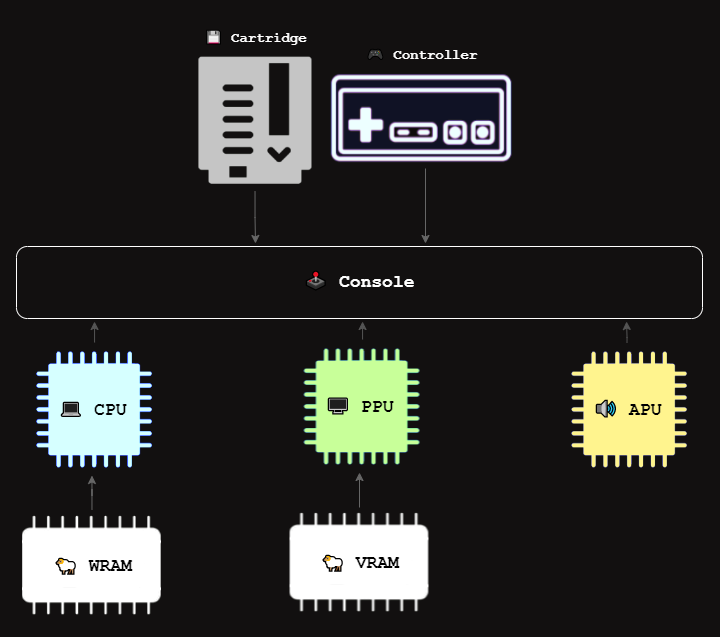
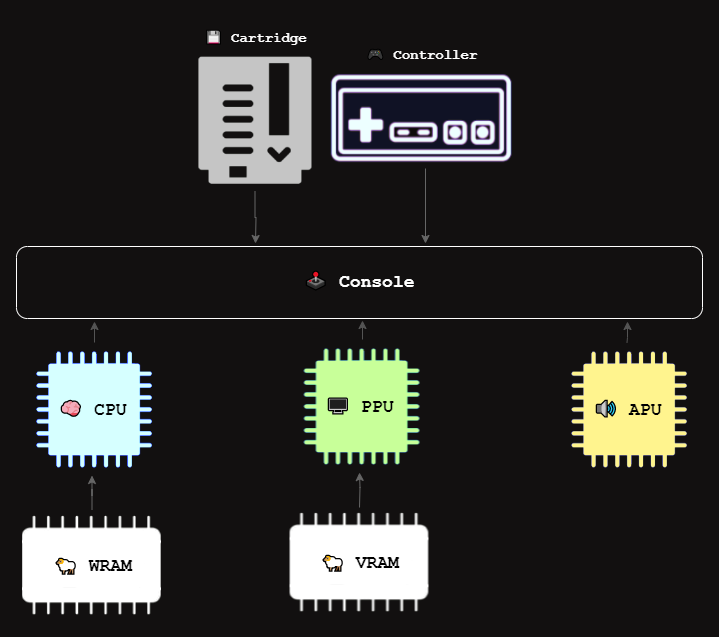
Using the brain emoji for CPU

diff --git a/src/gui/components/emulator/EmulatorRunner.js b/src/gui/components/emulator/EmulatorRunner.js
@@ -35,7 +35,7 @@ export default class EmulatorRunner extends PureComponent {
 						<div className={classNames(styles.column, styles.units)}>
 							<div className={styles.row}>
 								<Unit
-									icon="💻"
+									icon="🧠"
 									name="CPU"
 									completed={this._unlockedUnits.useCPU}
 									active={this._emulatorSettings.useCPU}
@@ -85,7 +85,7 @@ export default class EmulatorRunner extends PureComponent {
 							</div>
 						</div>
 						<Unit
-							icon="🧠"
+							icon="🗜"
 							name={"Mappers"}
 							completed={this._unlockedUnits.useMappers}
 							active={this._emulatorSettings.useMappers}

diff --git a/src/data/levels/03_Cartridge/04_Reading the header/bin/iNEEES.es.md b/src/data/levels/03_Cartridge/04_Reading the header/bin/iNEEES.es.md
@@ -25,17 +25,17 @@ El formato de la cabecera es el siguiente:
 - `0-3`: Constante `$4E $45 $53 $1A`
 - `4`: Tamaño del 🤖 `PRG-ROM` en unidades de `16` KiB
 - `5`: Tamaño del 👾 `CHR-ROM` en unidades de `8` KiB (el valor `0` significa que la placa usa `8` KiB de 👾 `CHR-RAM`)
-- `6`: Flags 6 - 🧠 Mapper (nybble inferior), 🚽 mirroring, 🔋 guardado de progreso (`PRG-RAM`), 🧸 relleno
-- `7`: Flags 7 - 🧠 Mapper (nybble superior)
+- `6`: Flags 6 - 🗜 Mapper (nybble inferior), 🚽 mirroring, 🔋 guardado de progreso (`PRG-RAM`), 🧸 relleno
+- `7`: Flags 7 - 🗜 Mapper (nybble superior)
 - `8-15`: 🧸 Relleno sin uso
 
-🧠 Las placas de cartuchos se dividen en clases llamadas **mappers** basadas en similitudes de hardware y comportamiento, y cada mapper tiene asignado un número de 8 bits.
+🗜 Las placas de cartuchos se dividen en clases llamadas **mappers** basadas en similitudes de hardware y comportamiento, y cada mapper tiene asignado un número de 8 bits.
 
 🚽 Cada cartucho también define un **tipo de mirroring** que afecta directamente al arreglo de pantallas y cómo el juego manejará el scrolling.
 
 Por ahora:
 
-- 🧠 El id de mapper puede ser cualquier número entre `0` y `255`.
+- 🗜 El id de mapper puede ser cualquier número entre `0` y `255`.
 - 🚽 El tipo de mirroring puede ser cualquiera de estos: `HORIZONTAL`, `VERTICAL`, `FOUR_SCREENS`.
 
 ### Flags 6

diff --git a/src/data/levels/03_Cartridge/04_Reading the header/bin/iNEEES.en.md b/src/data/levels/03_Cartridge/04_Reading the header/bin/iNEEES.en.md
@@ -25,17 +25,17 @@ The format of the header is as follows:
 - `0-3`: Constant `$4E $45 $53 $1A`
 - `4`: Size of 🤖 `PRG-ROM` in `16` KiB units
 - `5`: Size of 👾 `CHR-ROM` in `8` KiB units (value `0` means the board uses `8` KiB of 👾 `CHR-RAM`)
-- `6`: Flags 6 - 🧠 Mapper (lower nybble), 🚽 mirroring, 🔋 game saves (`PRG-RAM`), 🧸 padding
-- `7`: Flags 7 - 🧠 Mapper (upper nybble)
+- `6`: Flags 6 - 🗜 Mapper (lower nybble), 🚽 mirroring, 🔋 game saves (`PRG-RAM`), 🧸 padding
+- `7`: Flags 7 - 🗜 Mapper (upper nybble)
 - `8-15`: 🧸 Unused padding
 
-🧠 Cartridge boards are divided into classes called **mappers** based on similar board hardware and behavior, and each mapper has an assigned 8-bit number.
+🗜 Cartridge boards are divided into classes called **mappers** based on similar board hardware and behavior, and each mapper has an assigned 8-bit number.
 
 🚽 Each cartridge also defines a **mirroring type** which directly affects the screen arrangement and how the game will handle scrolling.
 
 For now:
 
-- 🧠 Mapper id can be any number between `0` and `255`.
+- 🗜 Mapper id can be any number between `0` and `255`.
 - 🚽 Mirroring type can be any of: `HORIZONTAL`, `VERTICAL`, `FOUR_SCREENS`.
 
 ### Flags 6
